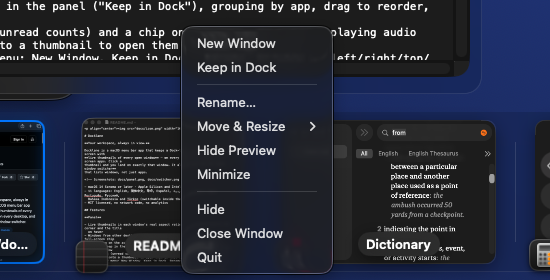
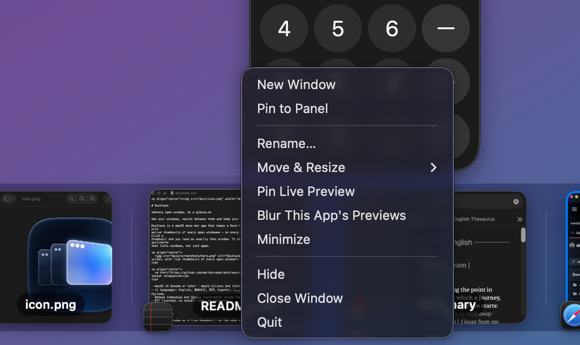
README screenshots with the new wording and switcher design
All seven retaken in English on a neutral backdrop: panel (hero), large preview,
context menu (Pin to Panel, Blur This App's Previews), window switcher and its
search (C send app to Dock, M minimize window; Claude blurred), menu bar
popover, and Settings (Appearance, Apps, Window Layouts, About).

diff --git a/README.md b/README.md
@@ -111,7 +111,7 @@ one click away.
 - Launch at login, VoiceOver labels, a warning when the macOS Dock sits on the same edge
 - 11 languages with an in-app language choice
 
-<p align="center"><img src="docs/screenshots/settings.png" width="760" alt="Docklane's settings: Appearance, Behavior, Apps and About"></p>
+<p align="center"><img src="docs/screenshots/settings.png" width="760" alt="Docklane's settings: Appearance, Apps, Window Layouts and About"></p>
 
 ## Permissions
 
